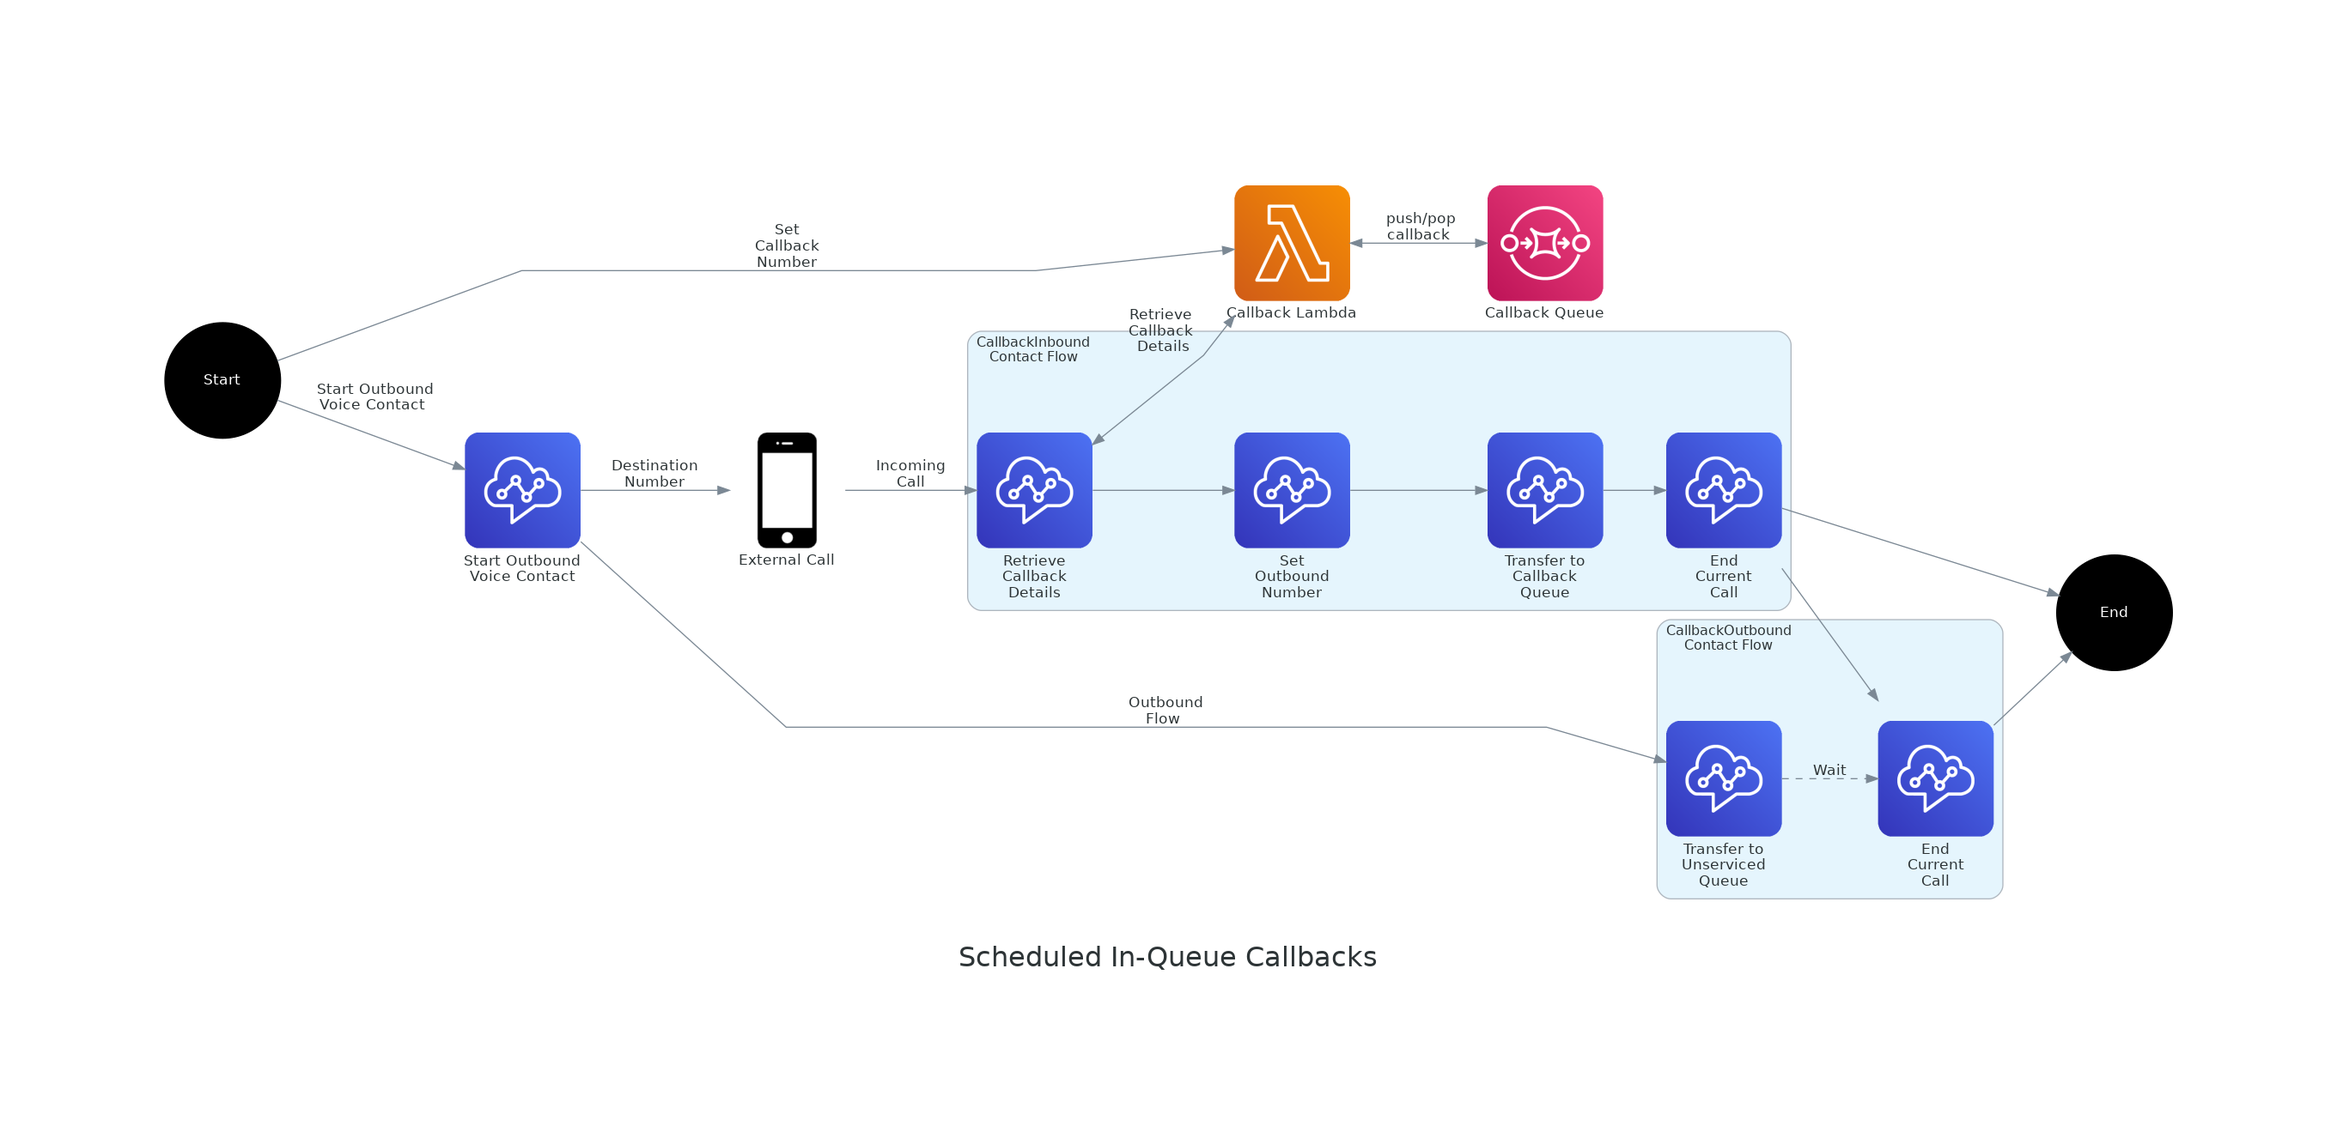
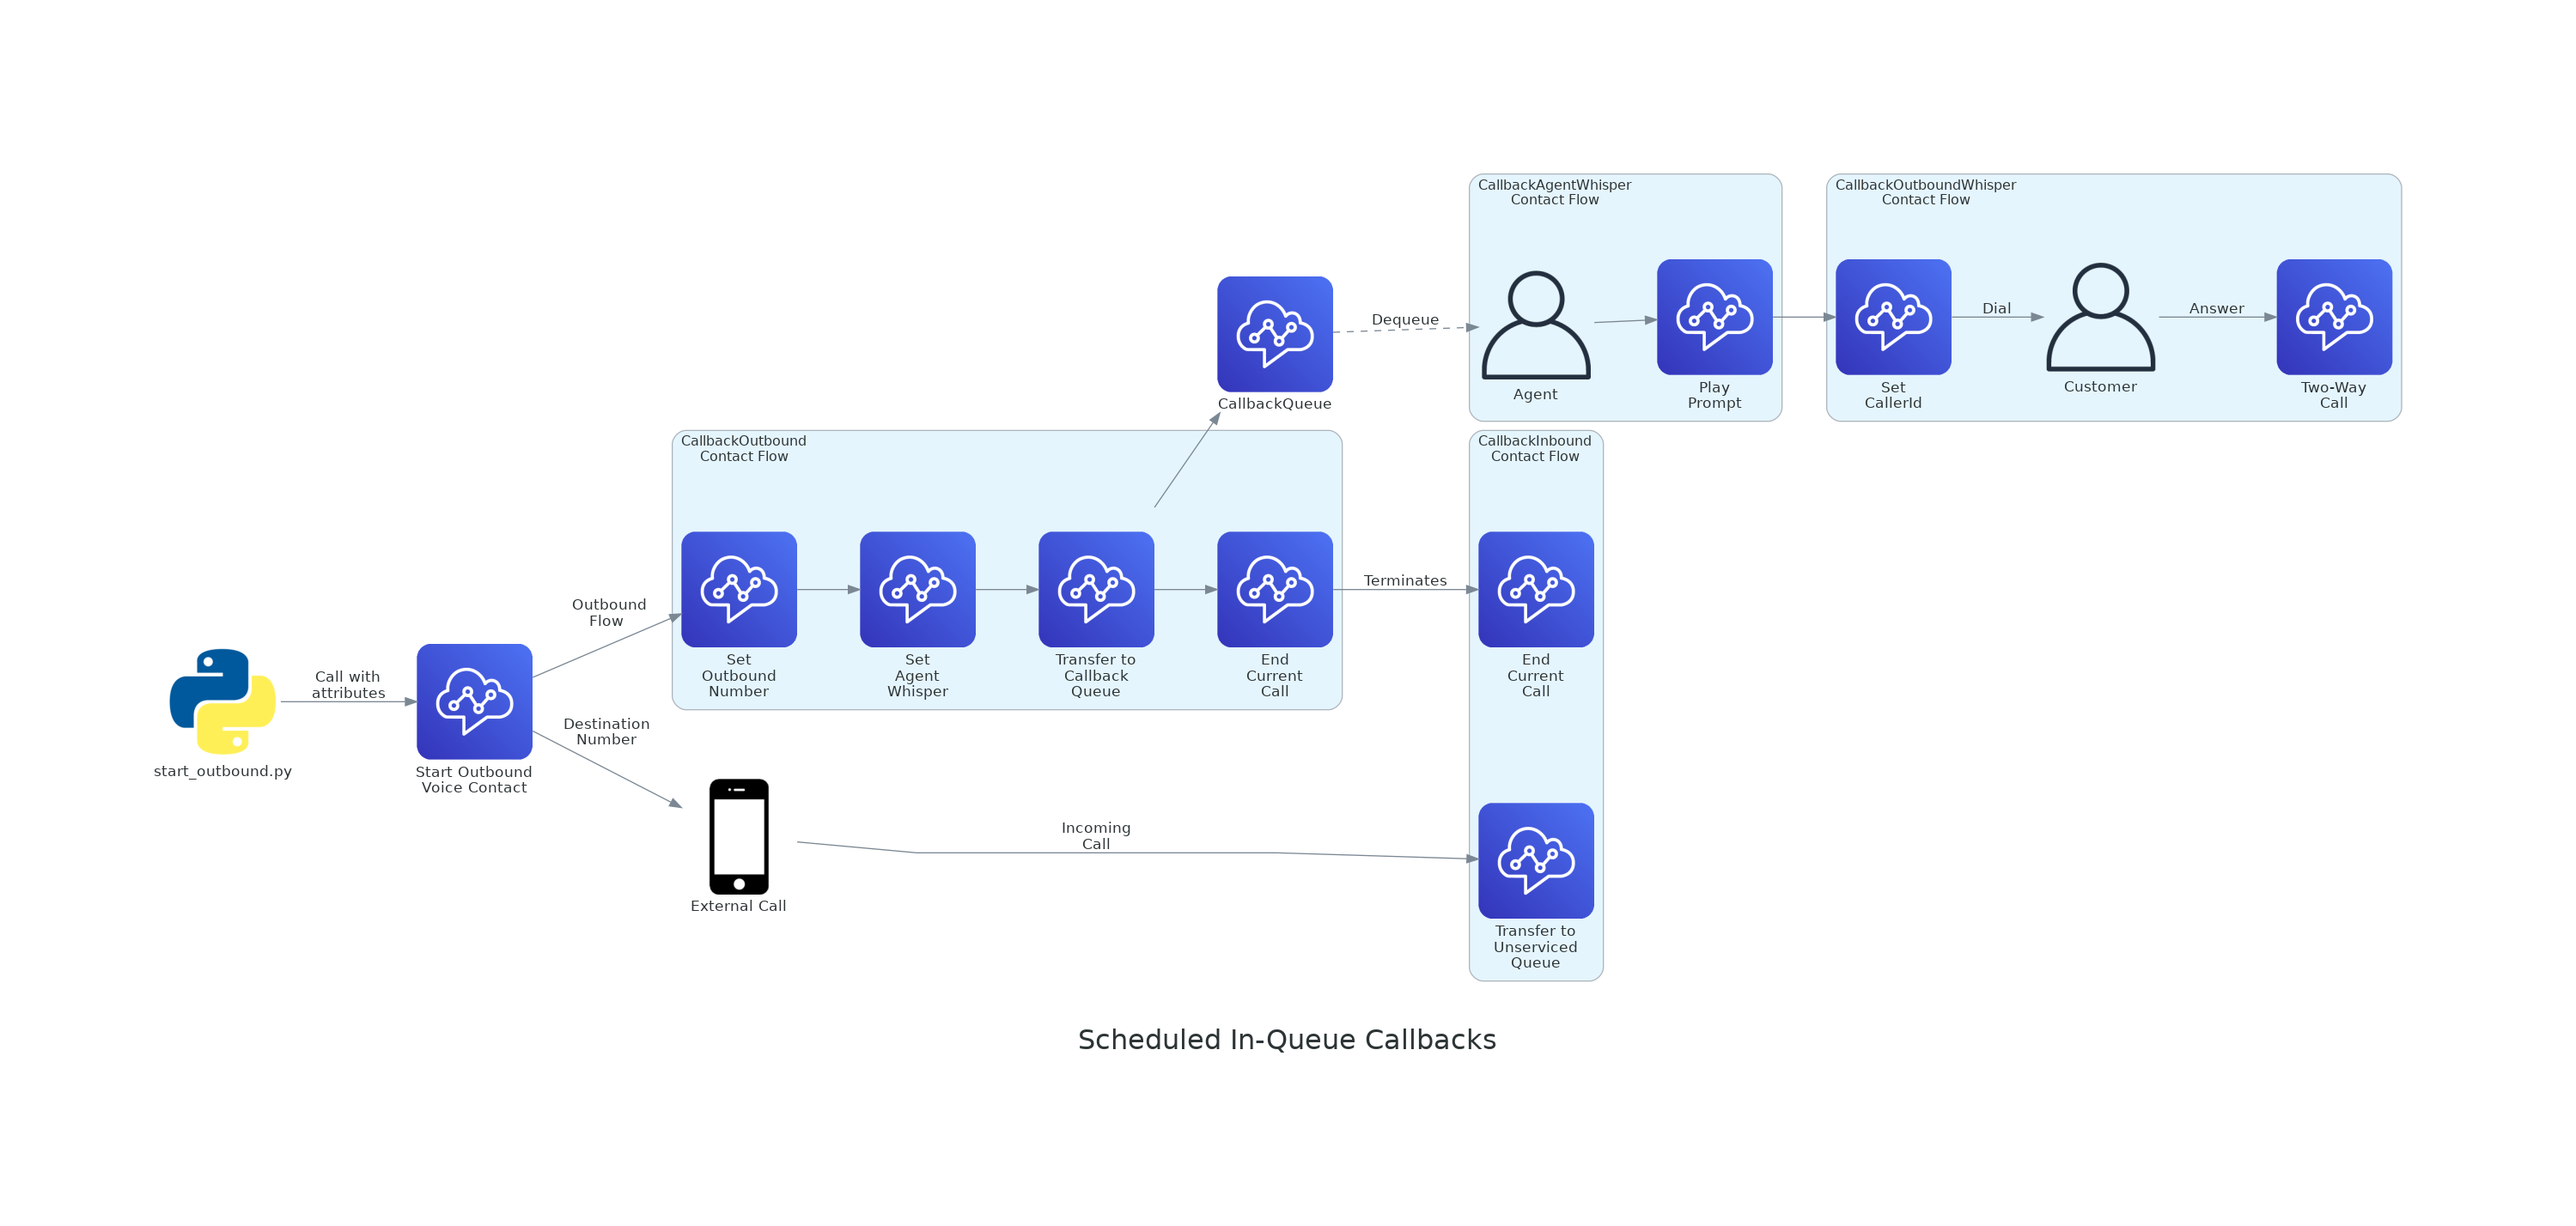
Fix documentation changes

diff --git a/docs/create_diagrams.py b/docs/create_diagrams.py
@@ -1,9 +1,8 @@
 from diagrams import Cluster, Diagram, Node, Edge
-from diagrams.aws.integration import SQS
-from diagrams.aws.compute import Lambda
 from diagrams.aws.engagement import Connect
 from diagrams.aws.general import User
 from diagrams.generic.device import Mobile
+from diagrams.programming.language import Python
 
 
 class StartNode(Node):
@@ -35,39 +34,60 @@ with Diagram(
   show=False,
   graph_attr={"splines": "polyline", "fontsize": "24"},
 ):
-  start = StartNode("Start")
-  lambda_node = Lambda("Callback Lambda")
-  sqs = SQS("Callback Queue")
+  # Global nodes
+  script = Python("start_outbound.py")
   mobile = Mobile("External Call")
-  end = StartNode("End")
-
   start_outbound = Connect("Start Outbound\nVoice Contact")
+  callback_queue = Connect("CallbackQueue")
 
+  # Inbound flow
   with Cluster("CallbackInbound\nContact Flow"):
-    retrieve = Connect("Retrieve\nCallback\nDetails")
-    set_outbound_number = Connect("Set\nOutbound\nNumber")
-    callback_queue = Connect("Transfer to\nCallback\nQueue")
+    transfer_to_unserviced_queue = Connect("Transfer to\nUnserviced\nQueue")
     end_current_call_inbound = Connect("End\nCurrent\nCall")
 
-    retrieve >> set_outbound_number >> callback_queue >> end_current_call_inbound
-    end_current_call_inbound >> end
+    # transfer_to_queue >> Edge(label="Wait") >> transfer_to_queue TODO
 
+  # Outbound flow
   with Cluster("CallbackOutbound\nContact Flow"):
-    transfer_to_queue = Connect("Transfer to\nUnserviced\nQueue")
+    set_outbound_number = Connect("Set\nOutbound\nNumber")
+    set_agent_whisper = Connect("Set\nAgent\nWhisper")
+    transfer_to_callback_queue = Connect("Transfer to\nCallback\nQueue")
     end_current_call_outbound = Connect("End\nCurrent\nCall")
 
-    transfer_to_queue >> Edge(label="Wait", style="dashed") >> end_current_call_outbound
-    end_current_call_inbound >> end_current_call_outbound
-    end_current_call_outbound >> end
+    (
+      set_outbound_number
+      >> set_agent_whisper
+      >> transfer_to_callback_queue
+      >> end_current_call_outbound
+    )
+    transfer_to_callback_queue >> callback_queue
 
-  start >> Edge(label=" Start Outbound\nVoice Contact") >> start_outbound
+  end_current_call_outbound >> Edge(label="Terminates") >> end_current_call_inbound
+
+  # Agent whisper
+  with Cluster("CallbackAgentWhisper\nContact Flow"):
+    agent = User("Agent")
+    agent_prompt = Connect("Play\nPrompt")
+
+    agent >> agent_prompt
+
+  callback_queue >> Edge(label="Dequeue", style="dashed") >> agent
+
+  # Outbound whisper
+  with Cluster("CallbackOutboundWhisper\nContact Flow"):
+    set_caller_id = Connect("Set\nCallerId")
+    customer = User("Customer")
+    two_way = Connect("Two-Way\nCall")
+
+    set_caller_id >> Edge(label="Dial") >> customer >> Edge(label="Answer") >> two_way
+
+  # Global edges
+  agent_prompt >> set_caller_id
+
+  script >> Edge(label="Call with\nattributes") >> start_outbound
   start_outbound >> Edge(label="Destination\nNumber") >> mobile
-  start_outbound >> Edge(label=" Outbound\nFlow") >> transfer_to_queue
-  mobile >> Edge(label="Incoming\nCall") >> retrieve
-
-  start >> Edge(label="Set\nCallback\nNumber") >> lambda_node
-  retrieve >> Edge(label="Retrieve \nCallback \nDetails", reverse=True) >> lambda_node
-  lambda_node >> Edge(label=" push/pop\ncallback", reverse=True) >> sqs
+  start_outbound >> Edge(label=" Outbound\nFlow") >> set_outbound_number
+  mobile >> Edge(label="Incoming\nCall") >> transfer_to_unserviced_queue
 
 with Diagram(
   "\nIn-Queue Callbacks",
